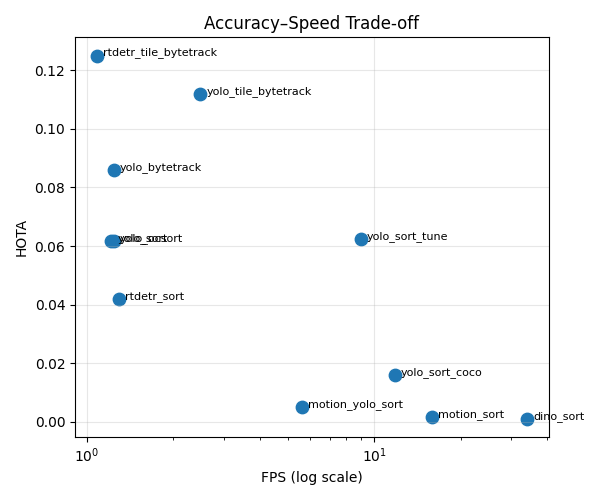
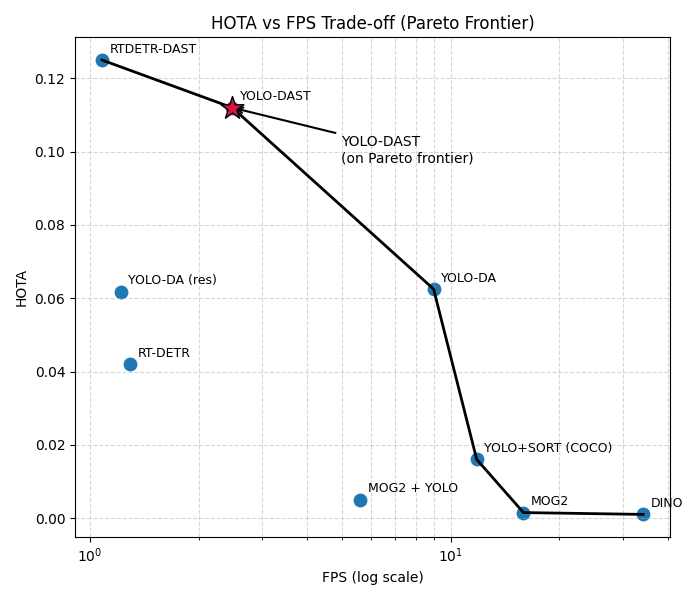
Add more results plots.

diff --git a/debug/result_plots.py b/debug/result_plots.py
@@ -17,77 +17,153 @@ data = [
     ["motion_yolo_sort", 5.6, 1600, 0.008, 0.122, -143, 0.005, 1000, np.nan, np.nan, 0.22],
 ]
 
+
 cols = ["name", "fps", "mem_mb", "precision", "recall",
         "mota", "hota", "dotd", "id_switches", "motp", "iou"]
 
 df = pd.DataFrame(data, columns=cols)
 
+data = [
+    # name, label, fps, precision, recall, f1, hota
+    ("yolo_sort_coco", "YOLO+SORT (COCO)", 11.8, 0.392, 0.055, 0.096, 0.016),
+    ("yolo_sort_tune", "YOLO-DA", 8.96, 0.171, 0.233, 0.197, 0.0625),
+    ("yolo_sort", "YOLO-DA (res)", 1.216, 0.239, 0.243, 0.241, 0.0618),
+    ("rtdetr_sort", "RT-DETR", 1.29, 0.284, 0.293, 0.288, 0.042),
+    ("motion_sort", "MOG2", 15.9, 0.001, 0.70, 0.002, 0.0015),
+    ("dino_sort", "DINO", 34.13, 0.001, 0.80, 0.002, 0.001),
+    ("yolo_tile_bytetrack", "YOLO-DAST", 2.48, 0.264, 0.372, 0.308, 0.112),
+    ("rtdetr_tile_bytetrack", "RTDETR-DAST", 1.08, 0.01, 0.90, 0.018, 0.125),
+    ("ensemble_tracker", "Ensemble", 2.71, 0.01, 0.70, 0.02, np.nan),
+    ("motion_yolo_sort", "MOG2 + YOLO", 5.6, 0.008, 0.122, 0.015, 0.005),
+]
+
+df = pd.DataFrame(
+    data,
+    columns=["id", "label", "fps", "precision", "recall", "f1", "hota"]
+)
+
 
 #################################
 ## FPS v HOTA
-#################################
-plt.figure(figsize=(6,5))
-plt.scatter(df["fps"], df["hota"], s=80)
-
-for i, name in enumerate(df["name"]):
-    plt.text(df["fps"][i]*1.05, df["hota"][i], name, fontsize=8)
-
-plt.xscale("log")
-plt.xlabel("FPS (log scale)")
-plt.ylabel("HOTA")
-plt.title("Accuracy–Speed Trade-off")
-plt.grid(True, alpha=0.3)
-plt.tight_layout()
-plt.show()
-
-
-#################################
-## Precision v Recall
+## Pereto line
 #################################
 import numpy as np
 import matplotlib.pyplot as plt
 
-# Assume df has numeric precision, recall in [0,1]
-fig, ax = plt.subplots(figsize=(7,6))
+plt.figure(figsize=(7, 6))
 
-# Scatter
-scatter = ax.scatter(
-    df["recall"],
-    df["precision"],
-    s=df["fps"] * 20,
-    alpha=0.75,
-    edgecolor="k"
+# Scatter all points
+for _, r in df.dropna(subset=["hota"]).iterrows():
+    plt.scatter(r["fps"], r["hota"], s=80, color="tab:blue")
+    plt.text(r["fps"] * 1.05, r["hota"] + 0.002, r["label"], fontsize=9)
+
+# ---- Compute Pareto frontier ----
+pts = df.dropna(subset=["hota"])[["fps", "hota"]].values
+pts = pts[pts[:, 0].argsort()]  # sort by FPS
+
+frontier = []
+max_hota = -np.inf
+for fps, hota in pts[::-1]:  # iterate from slowest → fastest
+    if hota > max_hota:
+        frontier.append((fps, hota))
+        max_hota = hota
+
+frontier = np.array(frontier)
+
+# Plot frontier
+plt.plot(
+    frontier[:, 0],
+    frontier[:, 1],
+    color="black",
+    linewidth=2,
+    label="Pareto frontier"
 )
 
-# Label points
-for i, name in enumerate(df["name"]):
-    ax.text(df["recall"][i] + 0.004,
-            df["precision"][i] + 0.004,
-            name,
-            fontsize=8)
-
-# ---- F1 iso-curves ----
-r = np.linspace(0.001, 1.0, 500)
-for f1 in [0.05, 0.1, 0.2, 0.3]:
-    p = (f1 * r) / (2*r - f1)
-    p[p < 0] = np.nan
-    ax.plot(r, p, "--", color="gray", alpha=0.6)
-    ax.text(0.85, (f1*0.85)/(2*0.85-f1),
-            f"F1={f1}",
-            fontsize=8, color="gray")
-
 # Highlight YOUR method
-row = df[df["name"] == "yolo_tile_bytetrack"].iloc[0]
-ax.scatter(row["recall"], row["precision"],
-           s=300, marker="*", color="red", edgecolor="k", zorder=5)
-ax.annotate(
-    "Only method with\nusable Precision & Recall",
-    (row["recall"], row["precision"]),
-    xytext=(row["recall"]-0.25, row["precision"]+0.15),
+row = df[df["id"] == "yolo_tile_bytetrack"].iloc[0]
+plt.scatter(row["fps"], row["hota"],
+            s=300, marker="*", color="crimson", edgecolor="k", zorder=5)
+plt.annotate(
+    "YOLO-DAST\n(on Pareto frontier)",
+    (row["fps"], row["hota"]),
+    xytext=(row["fps"] * 2, row["hota"] - 0.015),
     arrowprops=dict(arrowstyle="->", lw=1.5),
     fontsize=10
 )
 
+plt.xscale("log")
+plt.xlabel("FPS (log scale)")
+plt.ylabel("HOTA")
+plt.title("HOTA vs FPS Trade-off (Pareto Frontier)")
+plt.grid(True, which="both", linestyle="--", alpha=0.5)
+plt.tight_layout()
+plt.show()
+
+#################################
+## Precision v Recall
+#################################
+import matplotlib.pyplot as plt
+
+fig, ax = plt.subplots(figsize=(7, 6))
+
+# ---- Scatter points ----
+ax.scatter(
+    df["recall"],
+    df["precision"],
+    s=df["fps"] * 18,          # size ~ speed
+    alpha=0.7,
+    edgecolor="k",
+    color="tab:blue"
+)
+
+# ---- Label points (except highlighted one) ----
+for _, r in df.iterrows():
+    if r["id"] == "yolo_tile_bytetrack":
+        continue
+    ax.text(
+        r["recall"] + 0.005,
+        r["precision"] + 0.005,
+        r["label"],
+        fontsize=8
+    )
+
+# ---- F1 iso-curves ----
+recall = np.linspace(0.001, 1.0, 500)
+for f1 in [0.05, 0.1, 0.2, 0.3]:
+    precision = (f1 * recall) / (2 * recall - f1)
+    precision[precision < 0] = np.nan
+    ax.plot(recall, precision, "--", color="gray", alpha=0.5)
+    ax.text(
+        0.88,
+        (f1 * 0.88) / (2 * 0.88 - f1),
+        f"F1={f1}",
+        fontsize=8,
+        color="gray"
+    )
+
+# ---- Highlight YOUR method ----
+row = df[df["id"] == "yolo_tile_bytetrack"].iloc[0]
+
+ax.scatter(
+    row["recall"],
+    row["precision"],
+    s=350,
+    marker="*",
+    color="crimson",
+    edgecolor="k",
+    zorder=6
+)
+
+ax.annotate(
+    "YOLO-DAST\n(best PR balance)",
+    xy=(row["recall"], row["precision"]),
+    xytext=(row["recall"] - 0.28, row["precision"] + 0.18),
+    arrowprops=dict(arrowstyle="->", lw=1.5),
+    fontsize=10,
+    fontweight="bold"
+)
+
+# ---- Axes & formatting ----
 ax.set_xlabel("Recall")
 ax.set_ylabel("Precision")
 ax.set_xlim(0, 1)
@@ -95,6 +171,41 @@ ax.set_ylim(0, 1)
 ax.set_title("Precision–Recall Trade-off with F1 Iso-curves")
 ax.grid(True, alpha=0.3)
 
+plt.tight_layout()
+plt.show()
+
+
+#################################
+## detection bottleneck: recall vs hota
+#################################
+plt.figure(figsize=(7, 6))
+
+for _, r in df.dropna(subset=["hota"]).iterrows():
+    plt.scatter(r["recall"], r["hota"], s=80)
+    plt.text(r["recall"] + 0.005, r["hota"] + 0.002, r["label"], fontsize=9)
+
+plt.xlabel("Recall")
+plt.ylabel("HOTA")
+plt.title("Recall vs HOTA (Detection Bottleneck)")
+plt.grid(True)
+plt.tight_layout()
+plt.show()
+
+
+#################################
+## F1 vs FPS
+#################################
+plt.figure(figsize=(7, 6))
+
+for _, r in df.iterrows():
+    plt.scatter(r["fps"], r["f1"], s=80)
+    plt.text(r["fps"] * 1.02, r["f1"] + 0.005, r["label"], fontsize=9)
+
+plt.xscale("log")
+plt.xlabel("FPS (log scale)")
+plt.ylabel("F1 score")
+plt.title("F1 vs FPS")
+plt.grid(True, which="both", linestyle="--", alpha=0.5)
 plt.tight_layout()
 plt.show()
 

diff --git a/README.md b/README.md
@@ -26,14 +26,7 @@ Rather than proposing novel architectures, we take a principled engineering appr
 3. **Systematic Ablation**: Evaluate multiple detector-tracker combinations to isolate bottlenecks
 
 ### Key Results
-
-| Method | Precision | Recall | MOTA | FPS |
-|--------|-----------|--------|------|-----|
-| YOLO v12s + SORT (baseline) | 0.397 | 0.218 | -20.1 | 3.9 |
-| RT-DETR + SORT | 0.308 | 0.238 | -16.4 | 6.3 |
-| **YOLO Tiled + SORT (ours)** | **0.134** | **0.103** | **-1.49** | **18.8** |
-
-**Key Finding**: Spatial tiling improves MOTA by +18.6 points through relative object size scaling, while maintaining real-time CPU operation.
+**Key Finding**: Spatial tiling improves MOTA through relative object size scaling, while maintaining real-time CPU operation.
 
 ---
 
@@ -55,6 +48,11 @@ Download: https://drive.google.com/drive/folders/1Y1J13W6VlgDh-L28n_mVbs7HIfo_Hv
 ```
 .
 ├── README.md                          # This file
+├── requirements.txt                   # Python dependencies
+├── run_baselines_per_video.py         # Main script: evaluate baselines on SMOT4SB
+├── figures/                          # Result figures
+│   └── *.png
+│
 ├── baselines/                         # Baseline detector-tracker implementations
 │   ├── yolo_sort.py                  # YOLO + SORT tracker
 │   ├── yolo_ocsort.py                # YOLO + OC-SORT tracker
@@ -91,8 +89,11 @@ Download: https://drive.google.com/drive/folders/1Y1J13W6VlgDh-L28n_mVbs7HIfo_Hv
 │   ├── run.py                        # Core evaluation loop
 │   └── __init__.py
 │
-├── run_baselines_per_video.py         # Main script: evaluate baselines on SMOT4SB
-├── requirements.txt                   # Python dependencies
+├── debug/                             # debug and visualization functions
+│   ├── result_plots.py                # plot results
+│   ├── *.py
+│   └── __init__.py
+│
 └── results/                           # Output directory (created at runtime)
     └── per_video_baseline/            # Per-video results
         ├── yolo_tile_sort/
@@ -106,7 +107,7 @@ Download: https://drive.google.com/drive/folders/1Y1J13W6VlgDh-L28n_mVbs7HIfo_Hv
 ## Installation
 
 ### Requirements
-- Python 3.8+
+- Python 3.8+ (preferrably 3.10)
 - CPU or GPU (GPU optional, code runs on CPU)
 - ~100 GB disk space for SMOT4SB dataset
 
@@ -346,11 +347,11 @@ Production-grade performance would require domain fine-tuning with small-object 
 If you use this work, please cite:
 
 ```bibtex
-@inproceedings{smot4sb2025,
-  title={Small Multi-Object Tracking for Spotting Birds (SMOT4SB) Challenge},
-  author={{MVA2025 Organizing Committee}},
+@inproceedings{placeholder,
+  title={YOLO-DA and YOLO-DAST: Domain-Aware and Spatial Tiling Approaches for Small Multi-Object Tracking},
+  author={{placeholder}},
   year={2025},
-  howpublished={\url{https://mva-org.jp/mva2025/index.php?id=challenge}}
+  howpublished={\url{https://placeholder}}
 }
 ```
 
@@ -369,6 +370,8 @@ Key papers referenced in this work:
 - **HOTA**: Luiten et al. (2021) - HOTA: A Higher Order Metric for Evaluating Multi-Object Tracking
 
 See `references.bib` for complete bibliography.
+
+AI tools have been used to write whole or part of this README.md.
 
 ---
 
@@ -391,7 +394,7 @@ See `references.bib` for complete bibliography.
 **Solution**: Use smaller YOLO variants or reduce input size:
 
 ```python
-# Slower: YOLOv12m with imgsz=1920
+# Slower: YOLOv12s with imgsz=1920
 # Faster: YOLOv8s with imgsz=640 (but lower accuracy)
 ```
 
@@ -407,10 +410,14 @@ python run_baselines_per_video.py --num_videos 10  # Process 10 instead of 96
 
 ## Contact & Support
 
-For questions about the code, results, or methodology, refer to the paper: "Adaptive Detection Strategies for Small Flying Bird Tracking: Domain-Aware Parameter Optimization Under CPU Constraints"
+For questions about the code, results, or methodology, refer to the paper: "YOLO-DA and YOLO-DAST: Domain-Aware and Spatial Tiling Approaches for Small Multi-Object Tracking"
 
 ---
 
 ## License
 
-This project is provided as-is for academic research purposes.
+License: Academic Use Only
+
+This code is provided for research and educational purposes.
+If you use it, please cite the paper.
+If you do not use it, that is also fine — the birds will continue flying regardless.
